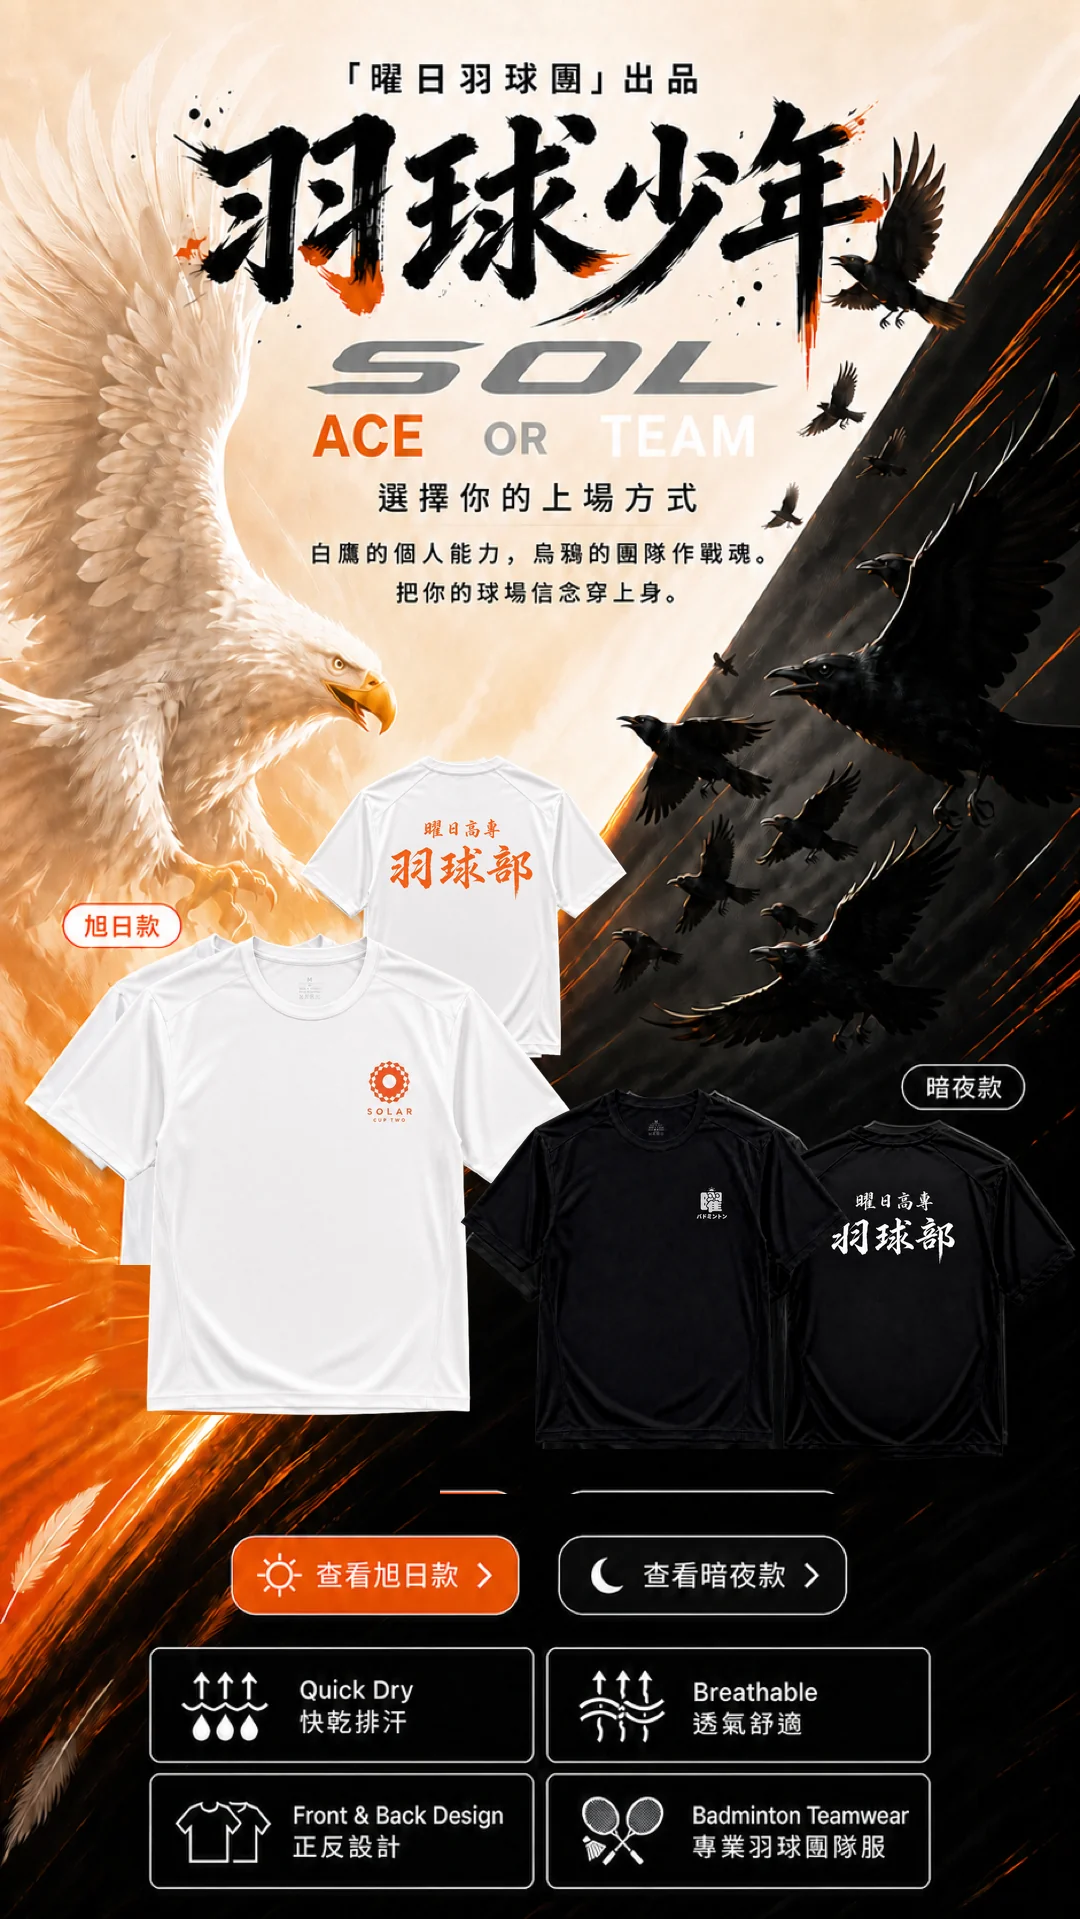
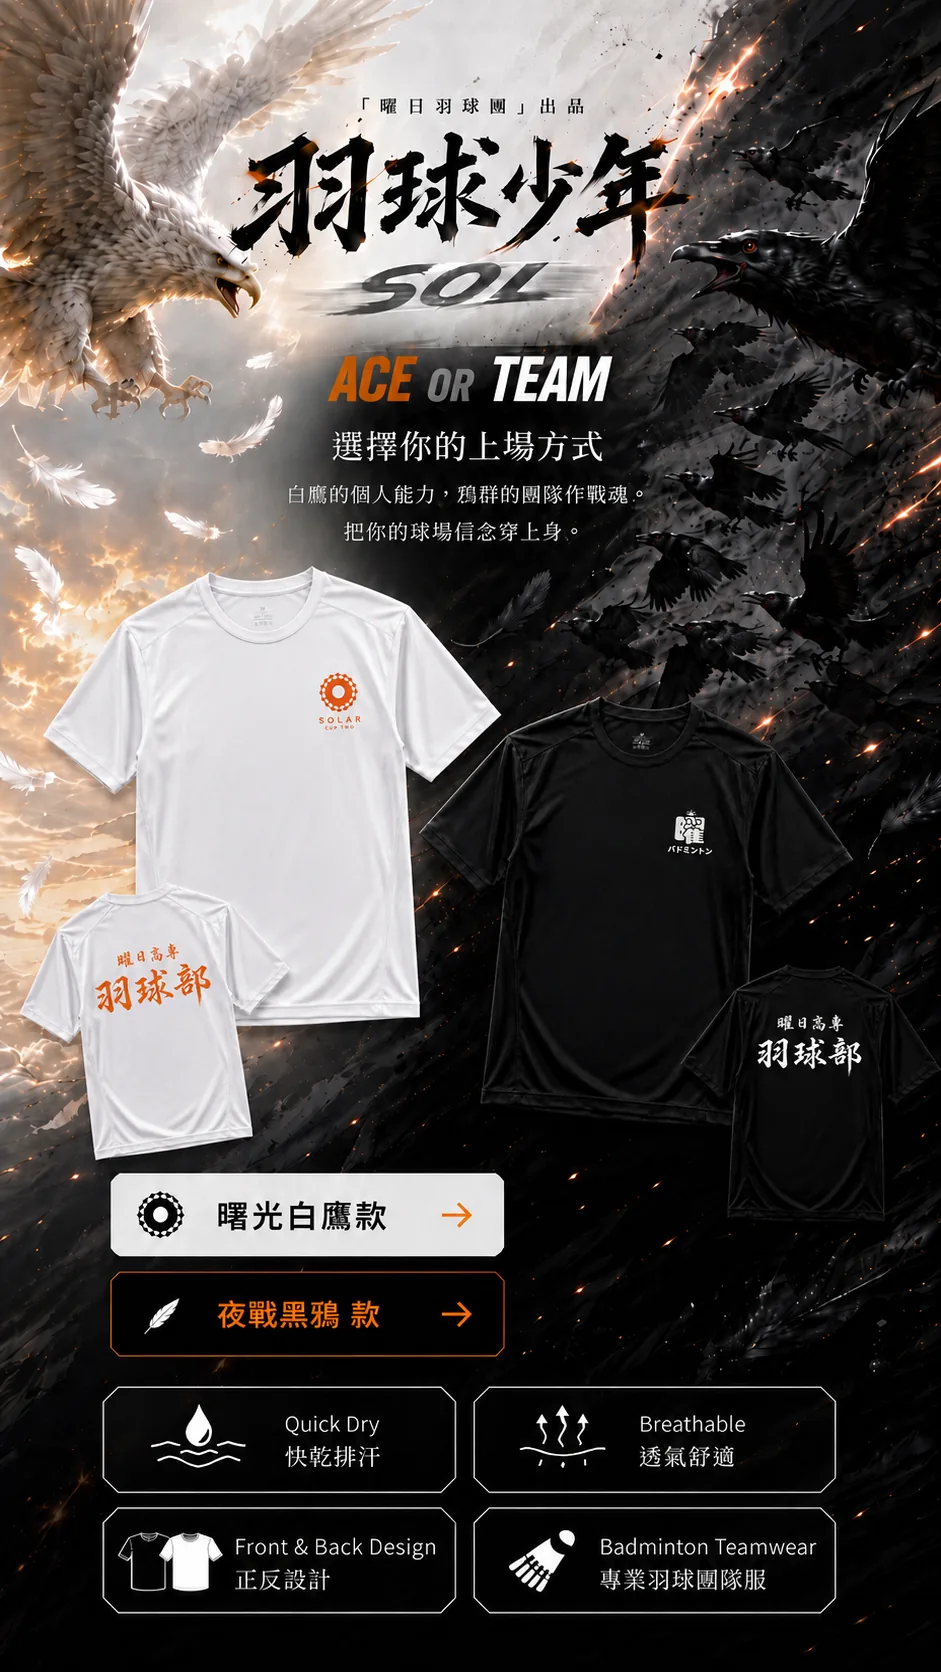
feat: 主視覺換 0828 曙光白鷹/夜戰黑鴉版，響應式尺寸與熱區全面對位
桌機 1672x941、手機 941x1672，aspect-ratio 與 width/height 屬性同步更新。
手機版按鈕改上下堆疊，四個熱區依像素掃描重新對位。
aria-label 改為新款式名稱，og 分享圖同步更新。

diff --git a/index.html b/index.html
@@ -41,14 +41,14 @@
     .duel-mobile-stack{display:contents}@media(max-width:760px){.duel-mobile-stack{position:absolute;left:0;right:0;bottom:var(--mobile-bar-space);display:flex;flex-direction:column;gap:8px;z-index:4}.duel-mobile-stack .duel-actions,.duel-mobile-stack .duel-features,.duel-mobile-stack .hero-caption{position:static;transform:none;top:auto;bottom:auto}.duel-mobile-stack .duel-actions{align-self:center;order:1;min-height:44px}.duel-mobile-stack .duel-features{align-self:center;order:2;min-height:118px;gap:6px}.duel-mobile-stack .hero-caption{order:3;width:100%;min-height:34px}.duel-mobile-stack .duel-actions a{min-height:44px;padding-top:0;padding-bottom:0}.duel-mobile-stack .duel-features div{min-height:57px;padding:7px}.duel-mobile-stack .duel-icon{width:23px;height:23px;margin-bottom:2px;padding:3px}.duel-mobile-stack .duel-features b{font-size:9px}.duel-mobile-stack .duel-features span{font-size:8px}.duel-copy>b{font-size:29px}.duel-copy h1{font-size:25px}.duel-copy p{font-size:14px}.duel-shirts{width:47.3%;bottom:60%}}
     @media(max-width:420px){.duel-shirts{width:33%;bottom:54.1%}.duel-mobile-stack .duel-features{min-height:112px;gap:5px}.duel-mobile-stack .duel-features div{min-height:54px;padding:6px}.duel-mobile-stack .duel-icon{width:22px;height:22px}.duel-copy>b{font-size:18px}.duel-copy h1{font-size:15px}.duel-copy>img{max-height:33px}}
     .duel-hero{--shirt-front:82%;--shirt-back:58%;--shirt-group-width:29%;--shirt-bottom:15%}.duel-shirts{width:var(--shirt-group-width);bottom:var(--shirt-bottom)}.duel-shirts .shirt-main{width:var(--shirt-front);height:auto;transform:none}.duel-shirts .shirt-back{width:var(--shirt-back);height:auto;transform:none}.duel-white{left:3%}.duel-black{right:3%}@media(max-width:760px){.duel-hero{--shirt-front:78%;--shirt-back:55%;--shirt-group-width:45%;--shirt-bottom:33%}.duel-white{left:4%}.duel-black{right:4%}}@media(max-width:420px){.duel-hero{--shirt-group-width:42%;--shirt-bottom:34%}}
-    .duel-hero{aspect-ratio:1920/1080}.hero-hot{position:absolute;z-index:4;display:block}.hero-hot:focus-visible{outline:3px solid #fff;outline-offset:2px}.hot-sun{left:35.7%;top:46%;width:13.9%;height:6.6%}.hot-night{left:50%;top:46%;width:13.9%;height:6.6%}@media(max-width:760px){.duel-hero{aspect-ratio:1080/1919}.hot-sun{left:20.3%;top:79%;width:28.5%;height:5.6%}.hot-night{left:51%;top:79%;width:27.5%;height:5.6%}}
+    .duel-hero{aspect-ratio:1672/941}.hero-hot{position:absolute;z-index:4;display:block}.hero-hot:focus-visible{outline:3px solid #fff;outline-offset:2px}.hot-sun{left:31.1%;top:74.9%;width:18.3%;height:8%}.hot-night{left:50.5%;top:74.9%;width:16.7%;height:8%}@media(max-width:760px){.duel-hero{aspect-ratio:941/1672}.hot-sun{left:11.4%;top:69.7%;width:43.2%;height:5.5%}.hot-night{left:11.4%;top:75.6%;width:43.2%;height:5.5%}}
     .hero-note{background:#0a1426;color:#cfd6e4;text-align:center;font-size:12px;padding:9px 14px;margin:0}
   </style>
 </head>
 <body>
   <nav><div class="wrap nav-in"><div class="brand">SOL MEMORIAL WEAR<small>曜日羽球團出品／BADMINTON YOUTH SERIES</small></div><div class="nav-links"><a href="#editions">圖樣版本</a><a href="#size">尺寸</a><a class="nav-link" href="#order">立即預購</a></div></div></nav>
   <div class="notice">第一波預購開放中｜截止至 2026/09/10 23:59｜預計 2026/10/10 出貨</div>
-  <header class="hero duel-hero"><picture class="duel-bg"><source media="(max-width: 760px)" srcset="images/hero-full-mobile.webp" width="1080" height="1919"><img src="images/hero-full-desktop.webp" alt="羽球少年主視覺——白鷹與黑鴉對決，曙光白與夜戰黑團服" width="1920" height="1080" fetchpriority="high"></picture><a class="hero-hot hot-sun" href="#first-light" aria-label="查看旭日款"></a><a class="hero-hot hot-night" href="#night-rally" aria-label="查看暗夜款"></a></header><p class="hero-note">情境合成示意，版型、材質與印色以商品實拍及尺寸表為準。</p>
+  <header class="hero duel-hero"><picture class="duel-bg"><source media="(max-width: 760px)" srcset="images/hero-full-mobile.webp" width="941" height="1672"><img src="images/hero-full-desktop.webp" alt="羽球少年主視覺——白鷹與黑鴉對決，曙光白鷹款與夜戰黑鴉款團服" width="1672" height="941" fetchpriority="high"></picture><a class="hero-hot hot-sun" href="#first-light" aria-label="查看曙光白鷹款"></a><a class="hero-hot hot-night" href="#night-rally" aria-label="查看夜戰黑鴉款"></a></header><p class="hero-note">情境合成示意，版型、材質與印色以商品實拍及尺寸表為準。</p>
   <main>
             <section id="editions"><div class="wrap"><div class="label">PRODUCT EDITIONS｜實拍佐證</div><h2 class="section-title">遠征短袖｜兩種正反識別。</h2><p class="lead">實拍呈現 Night Rally 夜戰黑與 First Light 曙光白的正反圖樣；兩款版型、尺寸與單價相同，前胸識別與背面印色不同。</p><div class="versions"><article class="version" id="first-light"><div class="product-pair"><figure><img loading="lazy" decoding="async" src="images/first-light-front.jpg" alt="First Light 曙光白正面圖樣"><figcaption>FRONT</figcaption></figure><figure><img loading="lazy" decoding="async" src="images/first-light-back.webp" alt="First Light 曙光白背面圖樣"><figcaption>BACK</figcaption></figure></div><div class="version-body"><div class="en">FIRST LIGHT／曙光白</div><h3>曙光白｜First Light</h3><ul class="specs"><li>白色衣身</li><li>前胸：SOLAR CUP TWO</li><li>背面：橙色「曜日高專／羽球部」</li></ul></div></article><article class="version" id="night-rally"><div class="product-pair"><figure><img loading="lazy" decoding="async" src="images/night-rally-front.jpg" alt="Night Rally 夜戰黑正面圖樣"><figcaption>FRONT</figcaption></figure><figure><img loading="lazy" decoding="async" src="images/night-rally-back.jpg" alt="Night Rally 夜戰黑背面圖樣"><figcaption>BACK</figcaption></figure></div><div class="version-body"><div class="en">NIGHT RALLY／夜戰黑</div><h3>夜戰黑｜Night Rally</h3><ul class="specs"><li>黑色衣身</li><li>前胸：曜＋バドミントン</li><li>背面：白色「曜日高專／羽球部」</li></ul></div></article></div><div class="team-design"><strong>活動穿著取向</strong>｜彈性布料、正反識別與羽球團隊服設計。情境合成示意，版型、材質與印色以商品實拍及尺寸表為準。</div><div class="warning">兩款為不同圖樣版本，非僅衣色不同。</div></div></section>
     <section id="size"><div class="wrap"><div class="label">SIZE CHART</div><h2 class="section-title">尺寸表</h2><div class="size-wrap"><table><thead><tr><th>尺寸</th><th>XS</th><th>S</th><th>M</th><th>L</th><th>XL</th><th>2XL</th><th>3L</th><th>4L</th></tr></thead><tbody><tr><td>衣長（cm）</td><td>63</td><td>65</td><td>68</td><td>72</td><td>75</td><td>77</td><td>79</td><td>82</td></tr><tr><td>衣寬（cm）</td><td>43</td><td>46</td><td>50</td><td>53</td><td>56</td><td>60</td><td>65</td><td>68</td></tr><tr><td>肩寬（cm）</td><td>40</td><td>43</td><td>45</td><td>48</td><td>51</td><td>56</td><td>57</td><td>62</td></tr><tr><td>袖長（cm）</td><td>18</td><td>19</td><td>20</td><td>21</td><td>22</td><td>24</td><td>25</td><td>28</td></tr></tbody></table></div><p class="note">開放預購尺寸：XS／S／M／L／XL／2XL／3L／4L。布料具有彈性，成品尺寸誤差 ± 2 公分。</p></div></section>
